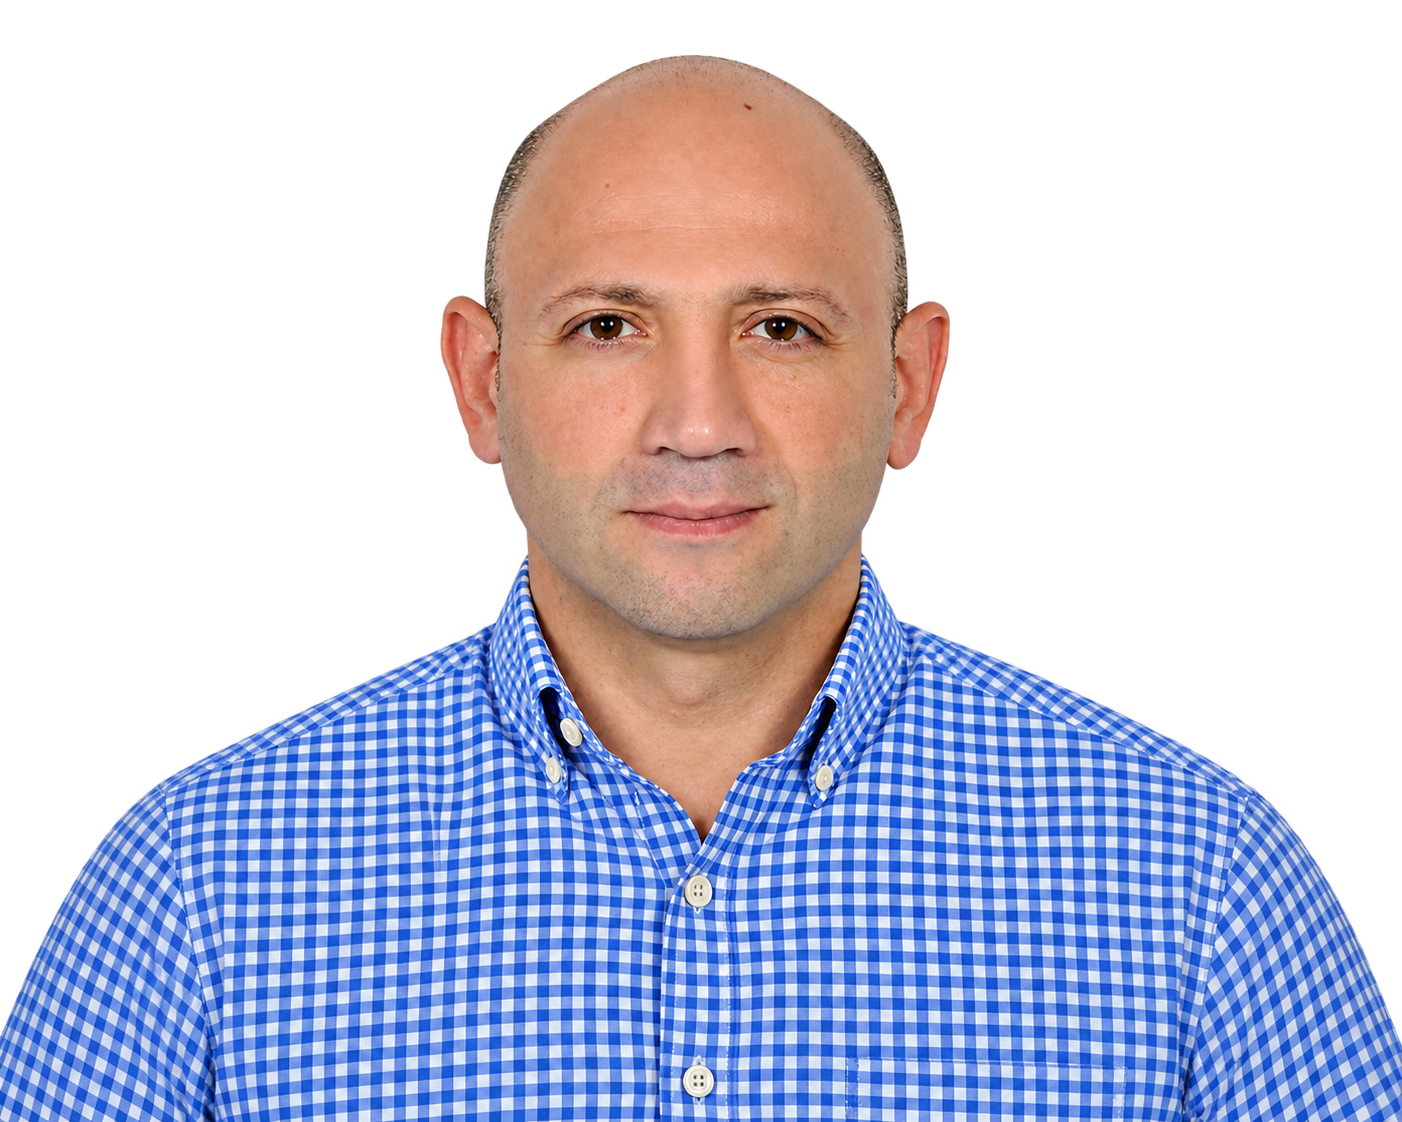
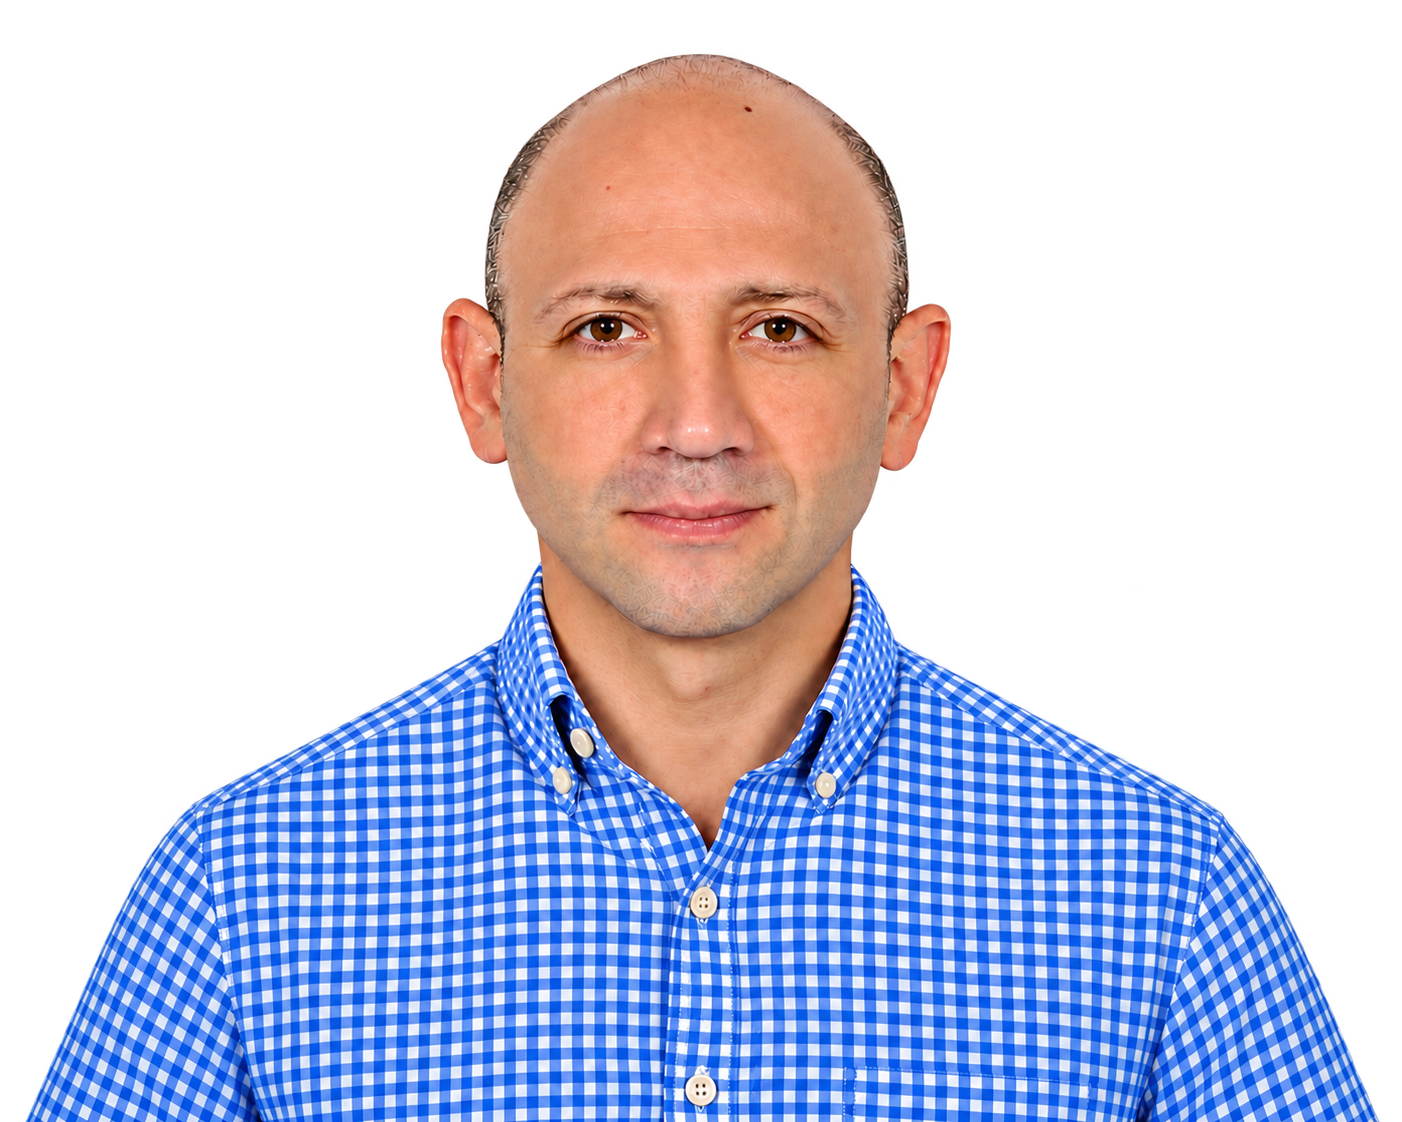
1

diff --git a/src/index.css b/src/index.css
@@ -1003,12 +1003,12 @@ html, body, #root {
 /* 2 columns x 3 rows: every row shares one line */
 .facilities-grid {
   position: absolute;
-  top: 300px;
+  top: 205px;
   left: 6%;
   right: 6%;
   display: grid;
   grid-template-columns: 1fr 1fr;
-  grid-auto-rows: 205px;
+  grid-auto-rows: 300px;
 }
 
 .facility-item {
@@ -1025,6 +1025,11 @@ html, body, #root {
 .facility-item:last-child {
   grid-column: 1 / -1;
   justify-self: center;
+}
+
+/* Lower the four upper facility items slightly; keep the workshop item fixed. */
+.facility-item:not(:last-child) {
+  transform: translateY(100px);
 }
 
 /* icons sit on one baseline inside a fixed-height box */
